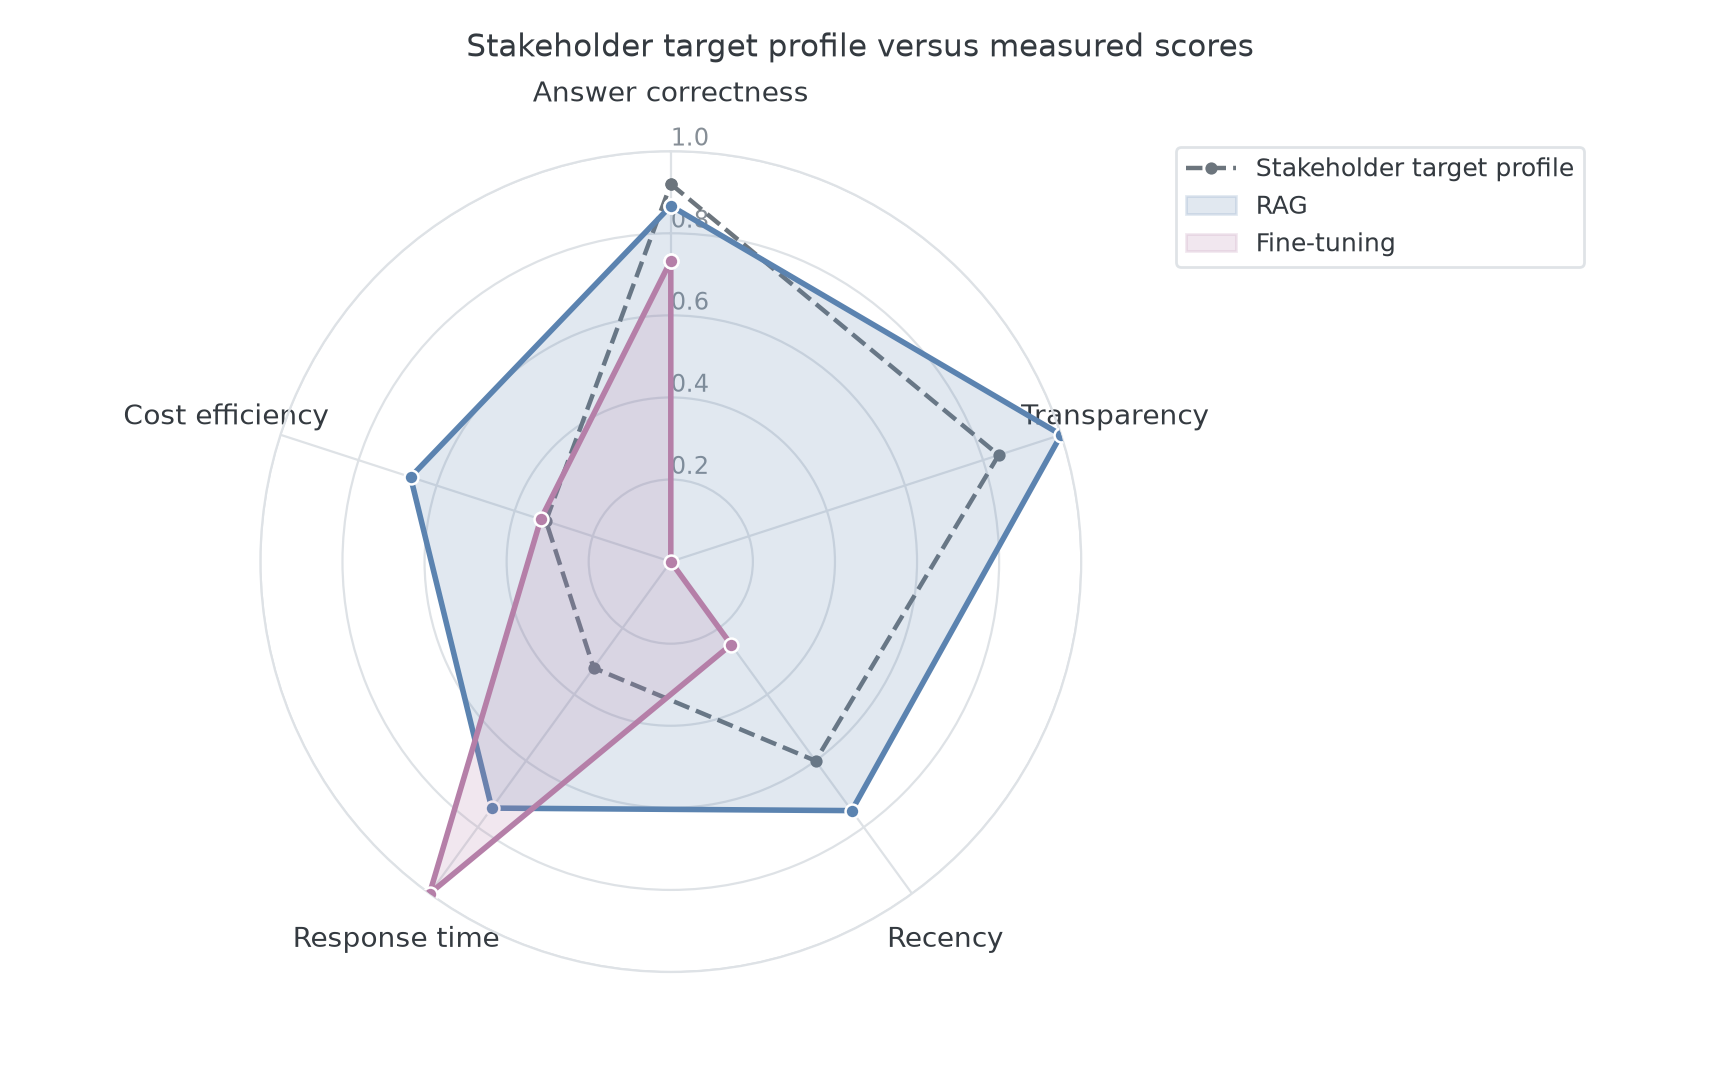
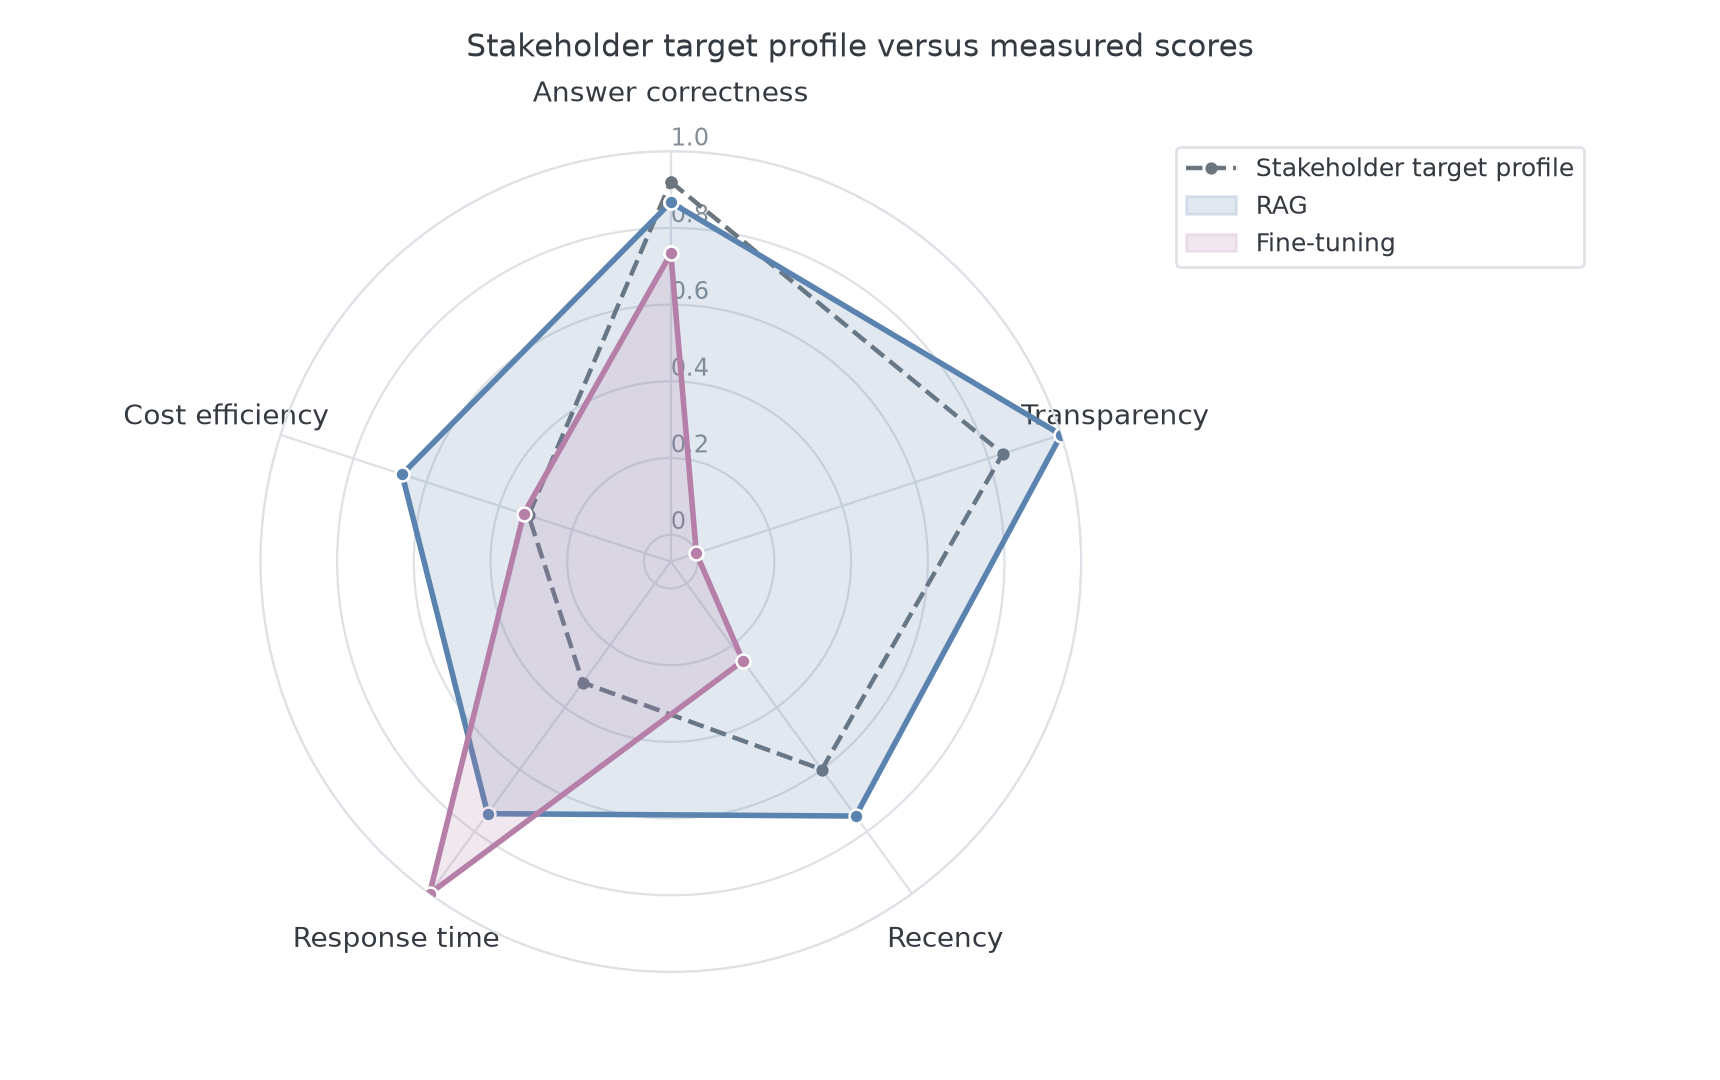
docs: give the radar a zero ring instead of a zero point
Start the radial axis just below zero, so a score of exactly 0 lands on a
labelled ring the way it does in the original thesis figure, rather than
collapsing into the centre point where it cannot be read.

diff --git a/src/rag_ft_eval/plots.py b/src/rag_ft_eval/plots.py
@@ -161,10 +161,12 @@ def plot_profile(run: EvaluationRun, path: Path) -> Path:
 
     ax.set_xticks(angles, metric_labels, fontsize=10)
     ax.tick_params(axis="x", pad=10)
-    ax.set_ylim(0, 1)
+    # the radial axis starts just below zero so that a score of exactly 0 lands on a visible
+    # ring rather than collapsing into the centre point, where it cannot be read
+    ax.set_ylim(-0.07, 1)
     ax.set_rlabel_position(0)
-    ax.set_yticks([0.2, 0.4, 0.6, 0.8, 1.0])
-    ax.set_yticklabels(["0.2", "0.4", "0.6", "0.8", "1.0"], fontsize=8.5, color="#868e96")
+    ax.set_yticks([0.0, 0.2, 0.4, 0.6, 0.8, 1.0])
+    ax.set_yticklabels(["0", "0.2", "0.4", "0.6", "0.8", "1.0"], fontsize=8.5, color="#868e96")
     ax.grid(color=GRID_COLOUR, linewidth=0.8)
     ax.spines["polar"].set_edgecolor(GRID_COLOUR)
     fig.suptitle(

diff --git a/README.md b/README.md
@@ -178,7 +178,7 @@ the evaluation.
 The same result seen as a profile: the dashed line is what the stakeholders asked for, scaled to
 the same range as the scores. RAG covers it on every criterion except response time. Fine-tuning
 exceeds it on response time alone and falls short everywhere else. Its marker on the transparency
-axis sits at the centre because it scored 0, none of its 15 answers came with traceable sources.
+axis sits on the zero ring: none of its 15 answers came with traceable sources.
 
 ## Robustness
 
